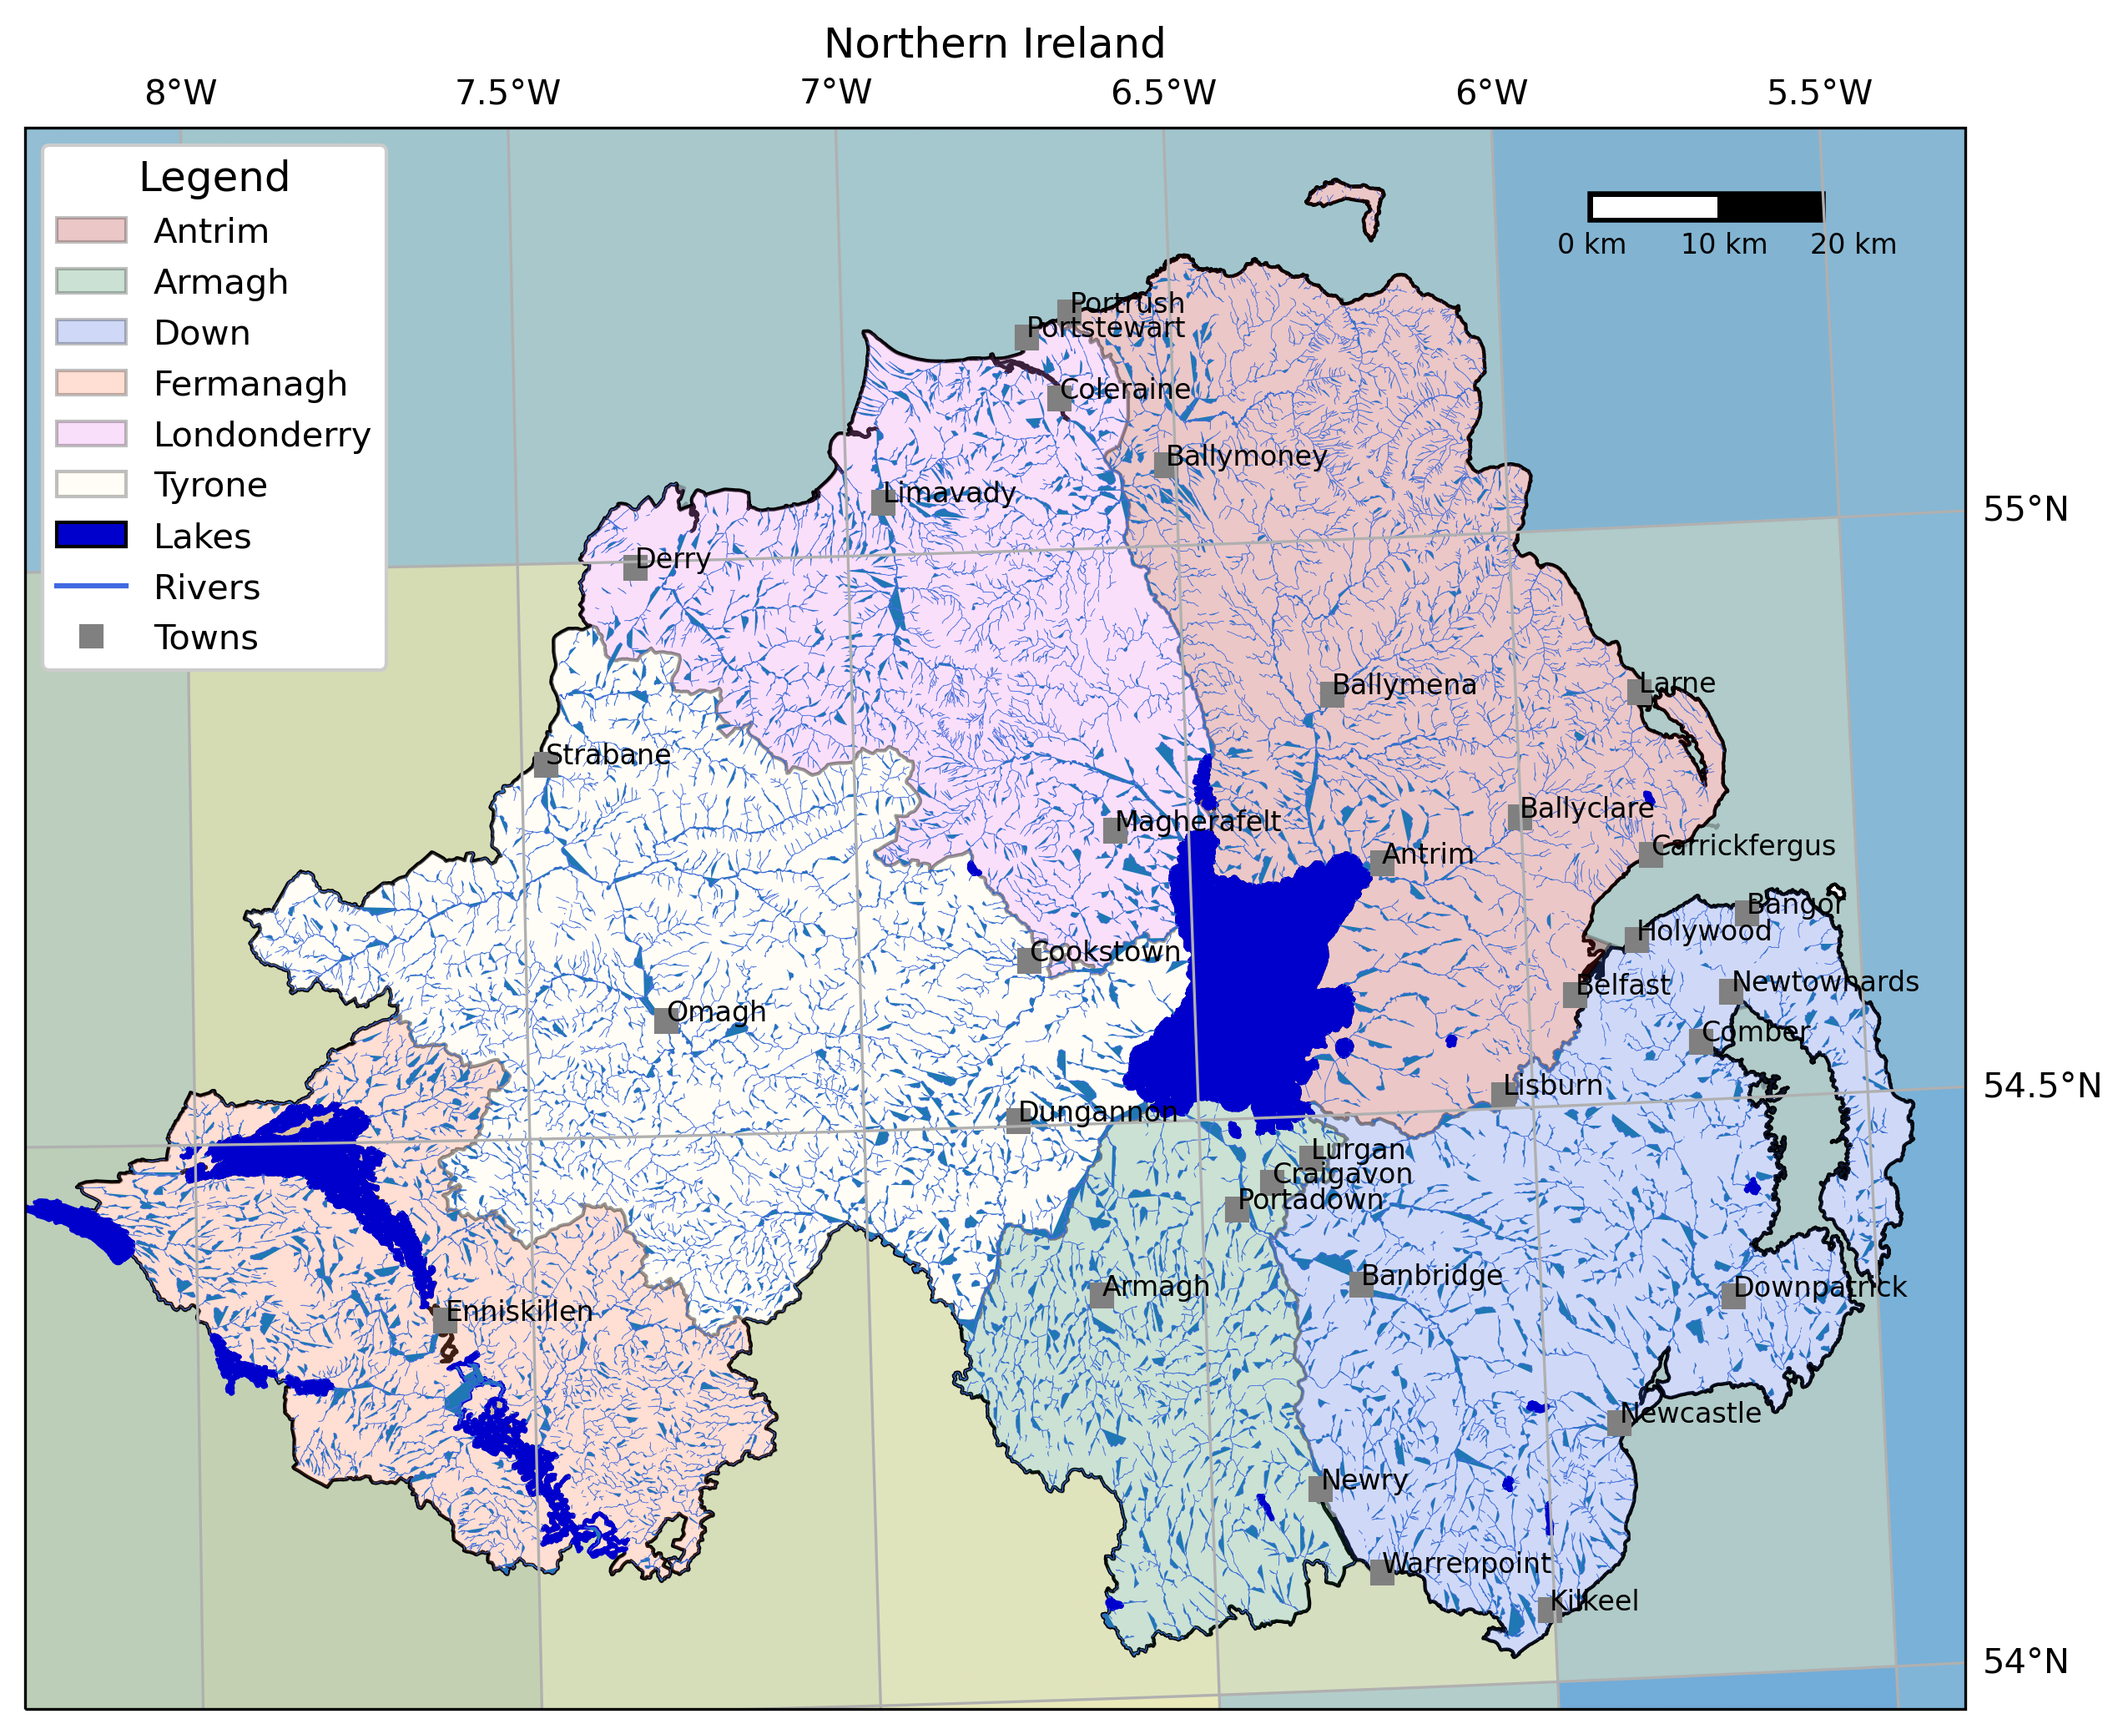
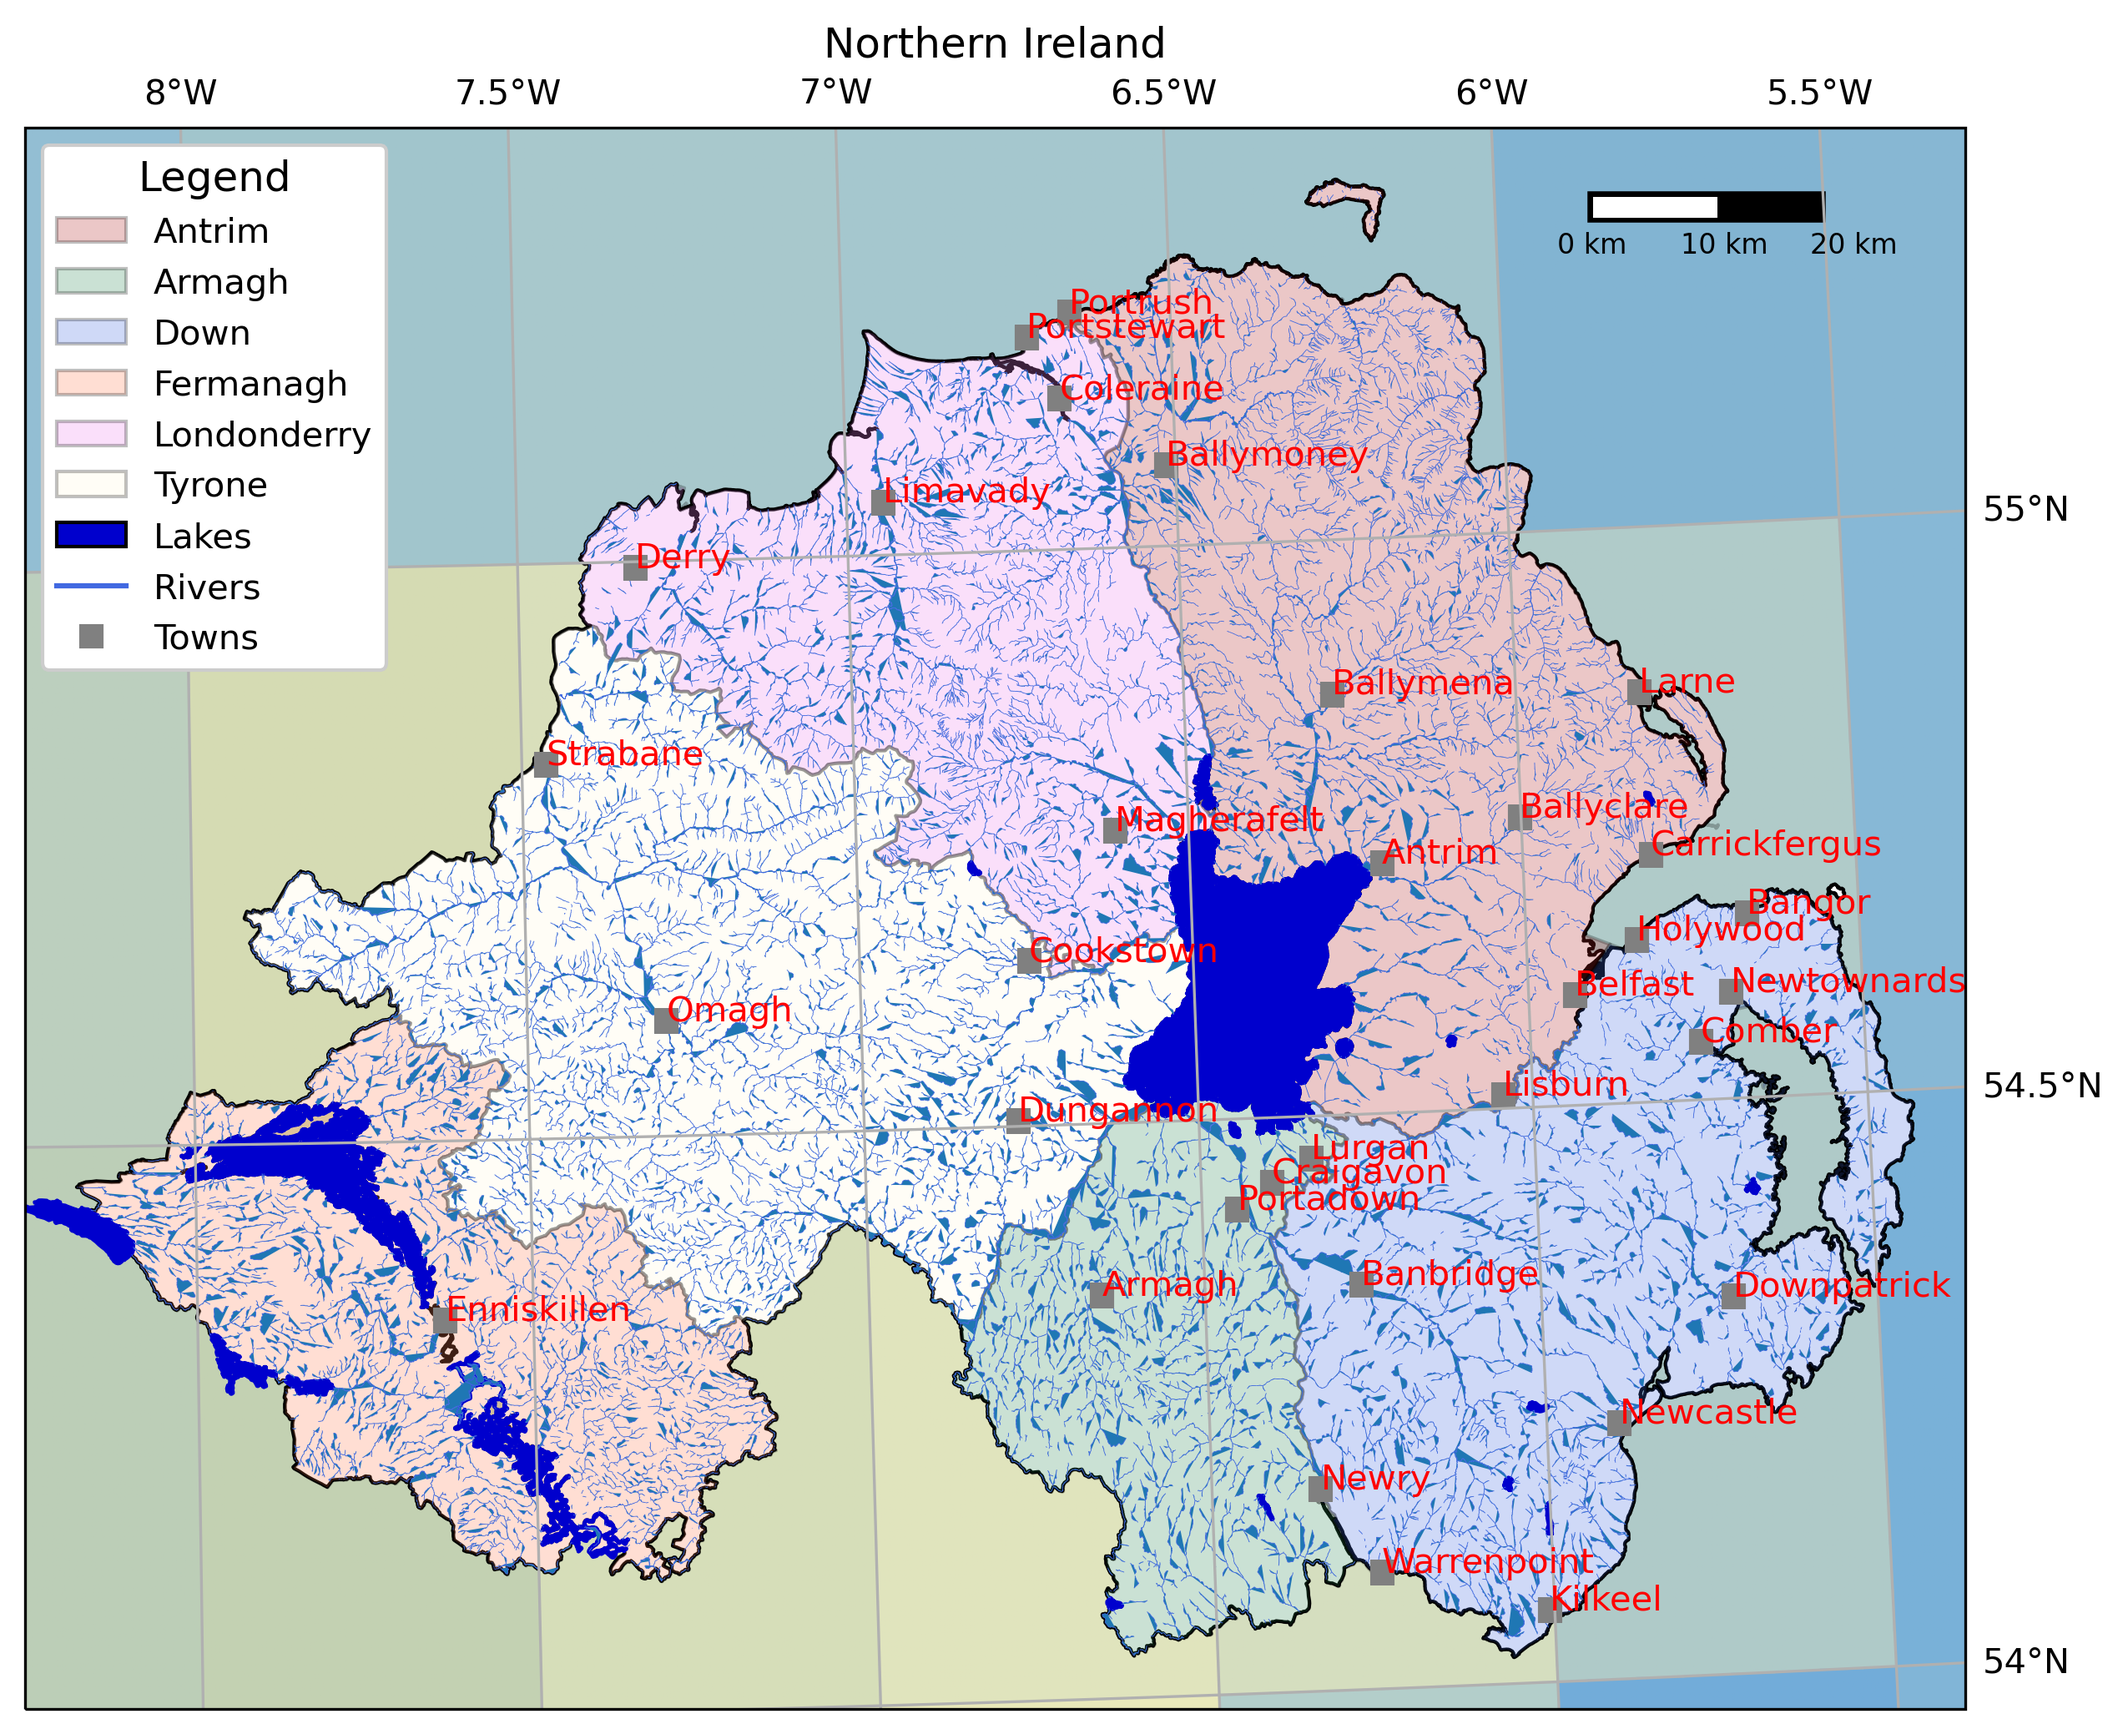
changed color and text size in map

diff --git a/Week2/practical2_script.py b/Week2/practical2_script.py
@@ -5,6 +5,10 @@ from cartopy.feature import ShapelyFeature
 import cartopy.crs as ccrs
 import matplotlib.patches as mpatches
 import matplotlib.lines as mlines
+import pandas as pd
+import csv
+import numpy as np
+
 
 
 # generate matplotlib handles to create a legend of the features we put in our map.
@@ -41,6 +45,22 @@ towns = gpd.read_file(os.path.abspath('data_files/Towns.shp'))
 water = gpd.read_file(os.path.abspath('data_files/Water.shp'))
 rivers = gpd.read_file(os.path.abspath('data_files/Rivers.shp'))
 counties = gpd.read_file(os.path.abspath('data_files/Counties.shp'))
+
+#calculations
+print(water.head(10))
+small_lakes = water.loc[water['Area_km2'] < 10, 'Area_km2'].sum()
+
+lakesMean = water.loc[water['Area_km2']< 10, 'Area_km2'].mean()
+
+
+
+print('Sum of lakes <10 km2: ' + str(small_lakes))
+print('mean :' + str(lakesMean))
+
+print(towns.head(10))
+print(rivers.head(10))
+
+
 
 # create a figure of size 10x10 (representing the page size in inches)
 myFig = plt.figure(figsize=(10, 10))
@@ -129,7 +149,7 @@ gridlines.bottom_labels = False  # turn off the bottom labels
 # add the text labels for the towns
 for ind, row in towns.iterrows():  # towns.iterrows() returns the index and row
     x, y = row.geometry.x, row.geometry.y  # get the x,y location for each town
-    ax.text(x, y, row['TOWN_NAME'].title(), fontsize=8, transform=myCRS)  # use plt.text to place a label at x,y
+    ax.text(x, y, row['TOWN_NAME'].title(), fontsize=10, transform=myCRS, color='red')  # use plt.text to place a label at x,y
 
 
 
@@ -144,11 +164,4 @@ ax.stock_img()
 # save the figure as map.png, cropped to the axis (bbox_inches='tight'), and a dpi of 300
 myFig.savefig('map_title.png', bbox_inches='tight', dpi=300)
 
-
-
-# calculations
-print(towns.head())
-print(counties.head())
-
-print(rivers.head())
-
+np.savetxt('result.dat', small_lakes, fmt='%9.2f')

diff --git a/Week3/exercise_script.py b/Week3/exercise_script.py
@@ -19,8 +19,6 @@ counties = gpd.read_file('data_files/Counties.shp')
 airports = pd.read_csv('data_files/Airports.csv')
 transport = pd.read_csv('data_files/transport_data.csv')
 
-print(roads.head())
-print(airports.head())
 
 # your analysis goes here...
 
